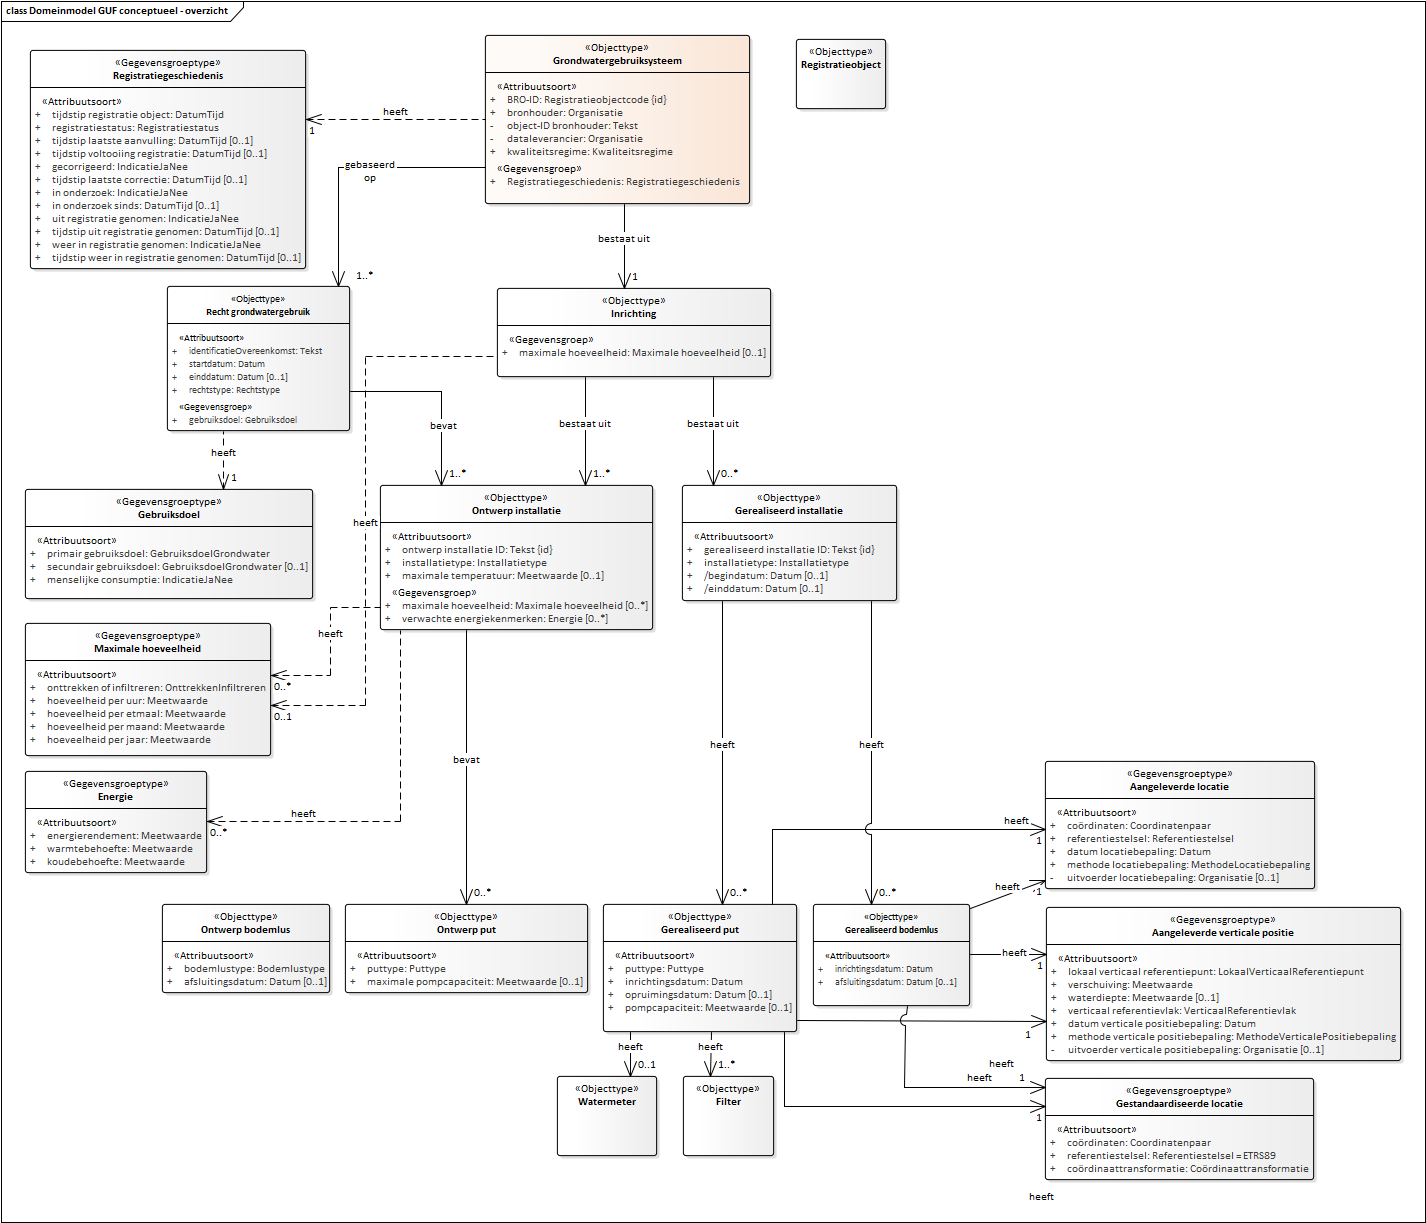
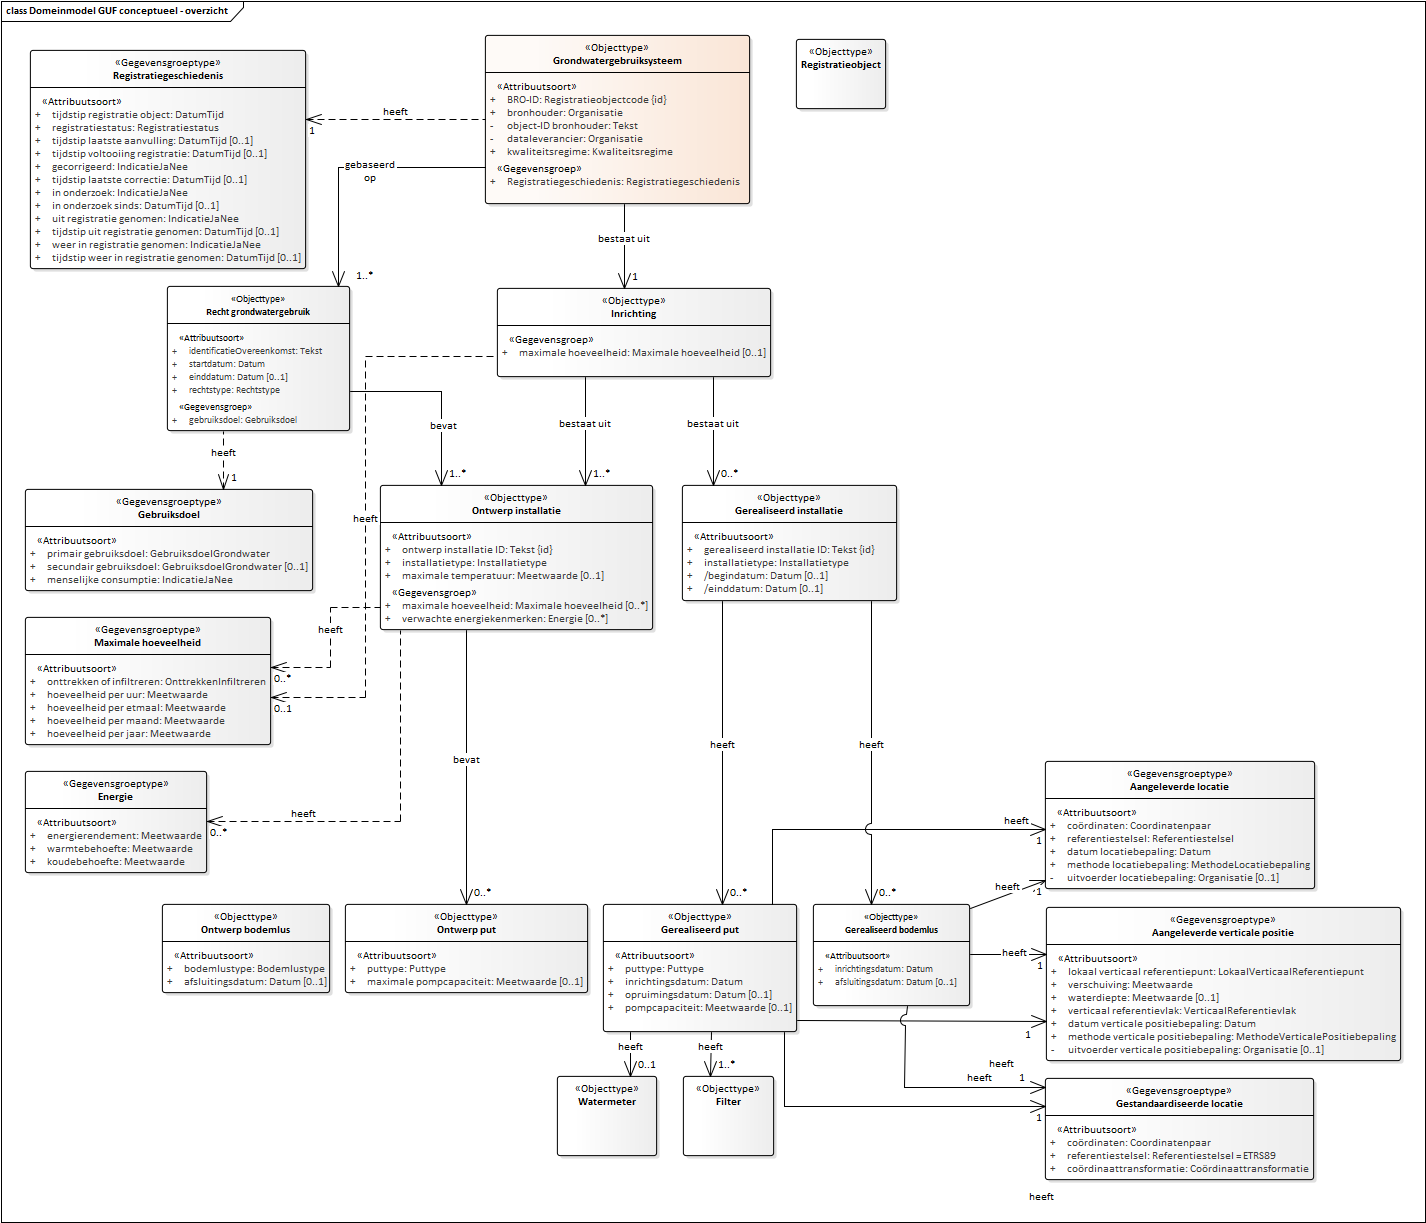
Conceptualmodel-GrondwatergebruikGUFconceptueel-0.1-1-20200401-20201013-171815

Changed region(s): [[0.0309, 0.4661, 0.216, 0.6214], [0.2468, 0.4039, 0.2777, 0.435], [0.216, 0.4971, 0.2468, 0.5282]]

diff --git a/data/GUF-cat.msword.html b/data/GUF-cat.msword.html
@@ -15,7 +15,7 @@
    <body>
       <p>Conceptual model/Grondwatergebruik (GUF) conceptueel/20200401</p>
       <p>Imvertor: 1.61.3</p>
-      <p>Model release: Conceptualmodel-GrondwatergebruikGUFconceptueel-0.1-1-20200401-20201013-155219</p>
+      <p>Model release: Conceptualmodel-GrondwatergebruikGUFconceptueel-0.1-1-20200401-20201013-171815</p>
       <hr>
       <section>
          <h1>Artikel 1 Definitie van registratieobject, entiteiten en attributen</h1>
@@ -62,7 +62,7 @@
          <section>
             <h2>Het domeinmodel</h2>
             <section id="">
-               <div class="imageinfo overview"><img src="Images/EAID_56F5F935_4109_4da0_A034_9EA7B40769E1.png" usemap="#imagemap-EAID_56F5F935_4109_4da0_A034_9EA7B40769E1" alt="Diagram "><map name="imagemap-EAID_56F5F935_4109_4da0_A034_9EA7B40769E1"><area shape="rect" alt="Ontwerp bodemlus" coords="162,904,330,993" href="#graph_EAID_B81BCB5C_B9C7_42d9_9F9E_3F76580BB410"><area shape="rect" alt="Ontwerp put" coords="345,904,588,993" href="#graph_EAID_FC483397_9430_4114_AE54_A7BE5A654EA9"><area shape="rect" alt="Energie" coords="25,771,207,873" href="#graph_EAID_F60FFCA9_A741_4d37_8DFE_FC87122B9777"><area shape="rect" alt="Maximale hoeveelheid" coords="25,623,271,756" href="#graph_EAID_D88F2231_8D52_4bac_AE7F_55102360A23B"><area shape="rect" alt="Gebruiksdoel" coords="25,489,313,599" href="#graph_EAID_DB9B3E32_EE42_4c47_A5CC_5AE7B58A2D13"><area shape="rect" alt="Inrichting" coords="497,288,771,377" href="#graph_EAID_FA614186_4D53_4fea_978C_DD8991CA0CF9"><area shape="rect" alt="Gerealiseerd installatie" coords="682,485,897,601" href="#graph_EAID_45C4EF5D_AC27_47cc_926D_7F514776B53D"><area shape="rect" alt="Gestandaardiseerde locatie" coords="1045,1078,1314,1180" href="#graph_EAID_7F1D92D4_092C_4272_8CA2_89F93EA3F12E"><area shape="rect" alt="Aangeleverde verticale positie" coords="1046,907,1401,1061" href="#graph_EAID_6AA525F0_F1B6_4471_96BE_E1DEF2FCC704"><area shape="rect" alt="Watermeter" coords="557,1076,657,1156" href="#graph_EAID_4A487037_0E94_4ee8_81A8_2355D11DE89F"><area shape="rect" alt="Filter" coords="683,1076,774,1156" href="#graph_EAID_9D151445_53ED_4738_9920_071518BB50C1"><area shape="rect" alt="Recht grondwatergebruik" coords="167,286,350,431" href="#graph_EAID_1A591F8A_2ECC_4122_86C9_26BFA5C5420E"><area shape="rect" alt="Gerealiseerd put" coords="603,904,797,1032" href="#graph_EAID_F75BA1C9_02EB_48e6_B9A8_A018120E2279"><area shape="rect" alt="Gerealiseerd bodemlus" coords="813,904,970,1006" href="#graph_EAID_D45703EE_CCD5_434c_A478_BFA48D1A9DCB"><area shape="rect" alt="Ontwerp installatie" coords="380,485,653,630" href="#graph_EAID_DB2636FB_090C_4af0_AA40_4301B23795E2"><area shape="rect" alt="Registratiegeschiedenis" coords="30,50,306,269" href="#graph_EAID_C00FA7D7_7F78_413d_80CC_8F5D41996171"><area shape="rect" alt="Aangeleverde locatie" coords="1045,761,1315,889" href="#graph_EAID_FA55712E_2710_4bb3_A08E_6B62C39189F5"><area shape="rect" alt="Grondwatergebruiksysteem" coords="485,35,750,204" href="#graph_EAID_048DC684_486B_4605_B9CA_40413DB3C9DC"><area shape="rect" alt="Registratieobject" coords="796,39,886,109" href="#graph_EAID_2AC7632D_D0CE_4468_8510_855B506BE12A"></map><p><b>Domeinmodel GUF conceptueel</b></p>
+               <div class="imageinfo overview"><img src="Images/EAID_56F5F935_4109_4da0_A034_9EA7B40769E1.png" usemap="#imagemap-EAID_56F5F935_4109_4da0_A034_9EA7B40769E1" alt="Diagram "><map name="imagemap-EAID_56F5F935_4109_4da0_A034_9EA7B40769E1"><area shape="rect" alt="Ontwerp bodemlus" coords="162,904,330,993" href="#graph_EAID_B81BCB5C_B9C7_42d9_9F9E_3F76580BB410"><area shape="rect" alt="Ontwerp put" coords="345,904,588,993" href="#graph_EAID_FC483397_9430_4114_AE54_A7BE5A654EA9"><area shape="rect" alt="Energie" coords="25,771,207,873" href="#graph_EAID_F60FFCA9_A741_4d37_8DFE_FC87122B9777"><area shape="rect" alt="Maximale hoeveelheid" coords="25,617,271,745" href="#graph_EAID_D88F2231_8D52_4bac_AE7F_55102360A23B"><area shape="rect" alt="Gebruiksdoel" coords="25,489,313,591" href="#graph_EAID_DB9B3E32_EE42_4c47_A5CC_5AE7B58A2D13"><area shape="rect" alt="Inrichting" coords="497,288,771,377" href="#graph_EAID_FA614186_4D53_4fea_978C_DD8991CA0CF9"><area shape="rect" alt="Gerealiseerd installatie" coords="682,485,897,601" href="#graph_EAID_45C4EF5D_AC27_47cc_926D_7F514776B53D"><area shape="rect" alt="Gestandaardiseerde locatie" coords="1045,1078,1314,1180" href="#graph_EAID_7F1D92D4_092C_4272_8CA2_89F93EA3F12E"><area shape="rect" alt="Aangeleverde verticale positie" coords="1046,907,1401,1061" href="#graph_EAID_6AA525F0_F1B6_4471_96BE_E1DEF2FCC704"><area shape="rect" alt="Watermeter" coords="557,1076,657,1156" href="#graph_EAID_4A487037_0E94_4ee8_81A8_2355D11DE89F"><area shape="rect" alt="Filter" coords="683,1076,774,1156" href="#graph_EAID_9D151445_53ED_4738_9920_071518BB50C1"><area shape="rect" alt="Recht grondwatergebruik" coords="167,286,350,431" href="#graph_EAID_1A591F8A_2ECC_4122_86C9_26BFA5C5420E"><area shape="rect" alt="Gerealiseerd put" coords="603,904,797,1032" href="#graph_EAID_F75BA1C9_02EB_48e6_B9A8_A018120E2279"><area shape="rect" alt="Gerealiseerd bodemlus" coords="813,904,970,1006" href="#graph_EAID_D45703EE_CCD5_434c_A478_BFA48D1A9DCB"><area shape="rect" alt="Ontwerp installatie" coords="380,485,653,630" href="#graph_EAID_DB2636FB_090C_4af0_AA40_4301B23795E2"><area shape="rect" alt="Registratiegeschiedenis" coords="30,50,306,269" href="#graph_EAID_C00FA7D7_7F78_413d_80CC_8F5D41996171"><area shape="rect" alt="Aangeleverde locatie" coords="1045,761,1315,889" href="#graph_EAID_FA55712E_2710_4bb3_A08E_6B62C39189F5"><area shape="rect" alt="Grondwatergebruiksysteem" coords="485,35,750,204" href="#graph_EAID_048DC684_486B_4605_B9CA_40413DB3C9DC"><area shape="rect" alt="Registratieobject" coords="796,39,886,109" href="#graph_EAID_2AC7632D_D0CE_4468_8510_855B506BE12A"></map><p><b>Domeinmodel GUF conceptueel</b></p>
                </div>
             </section>
          </section>
